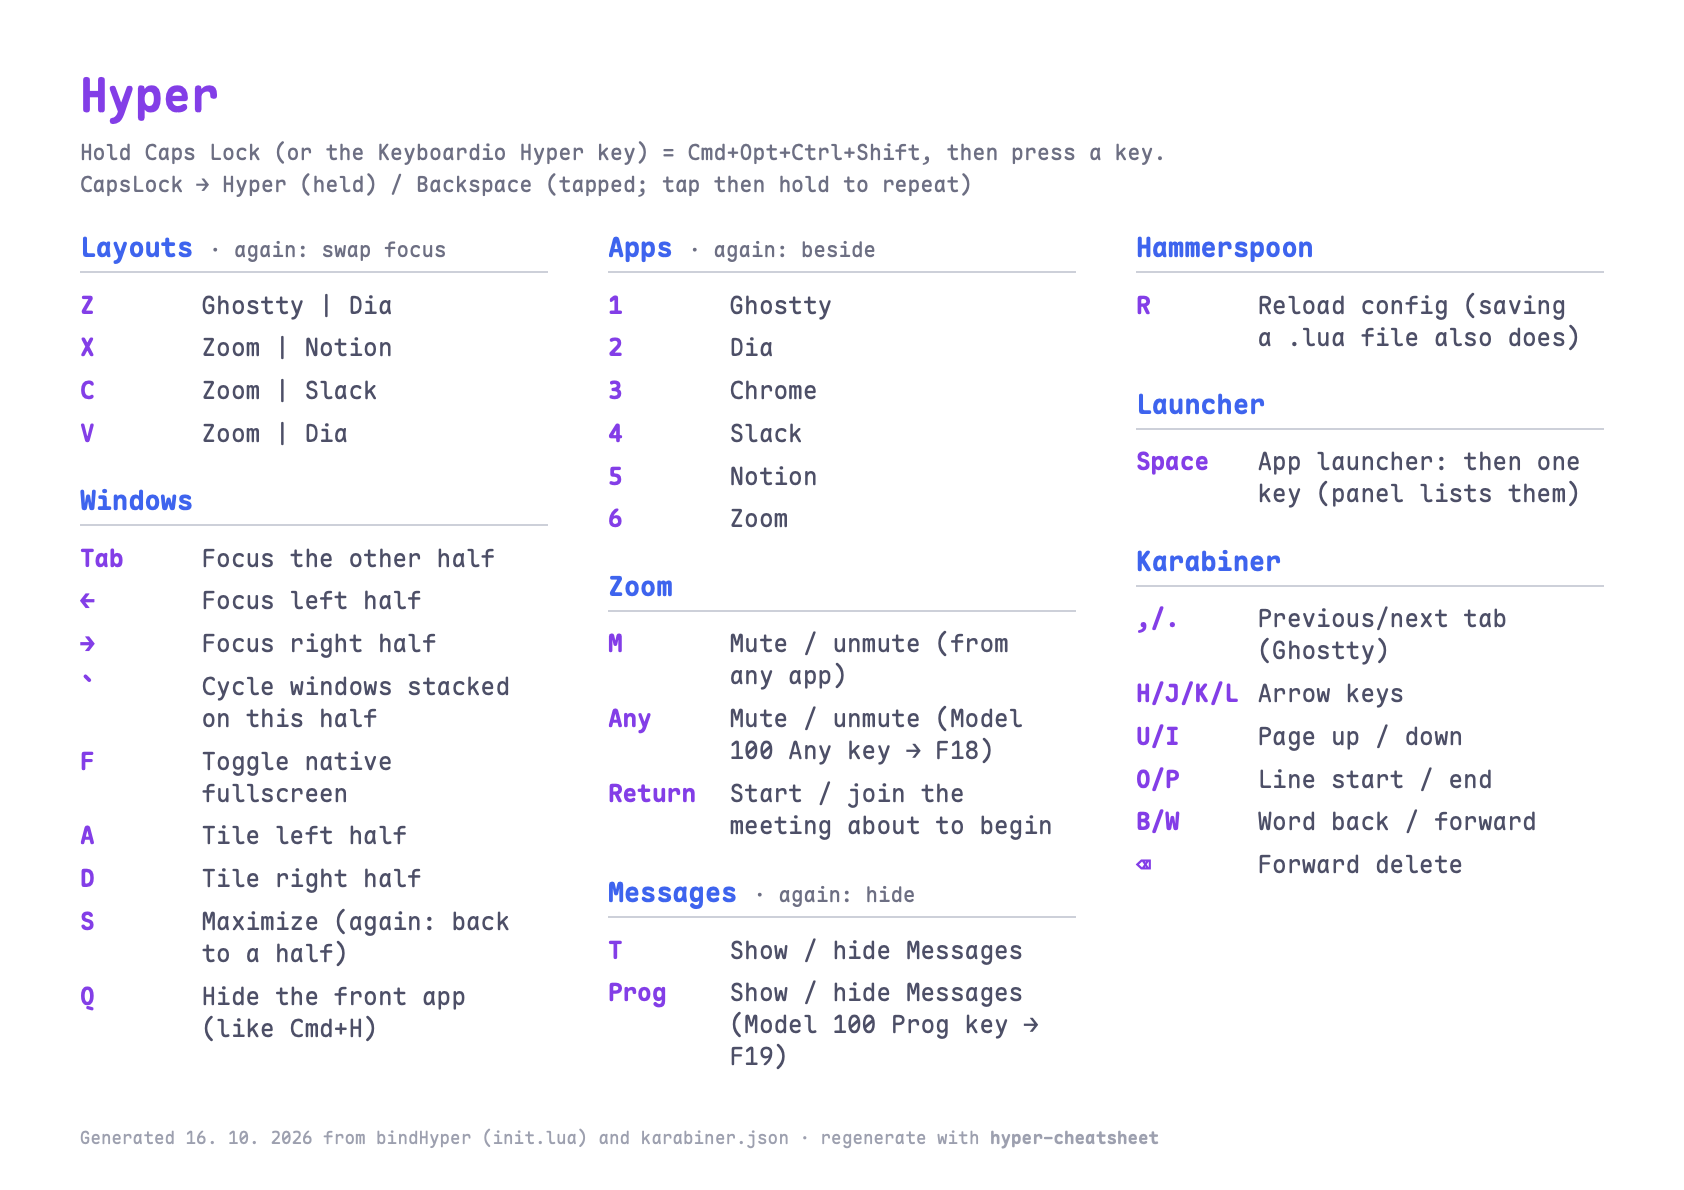
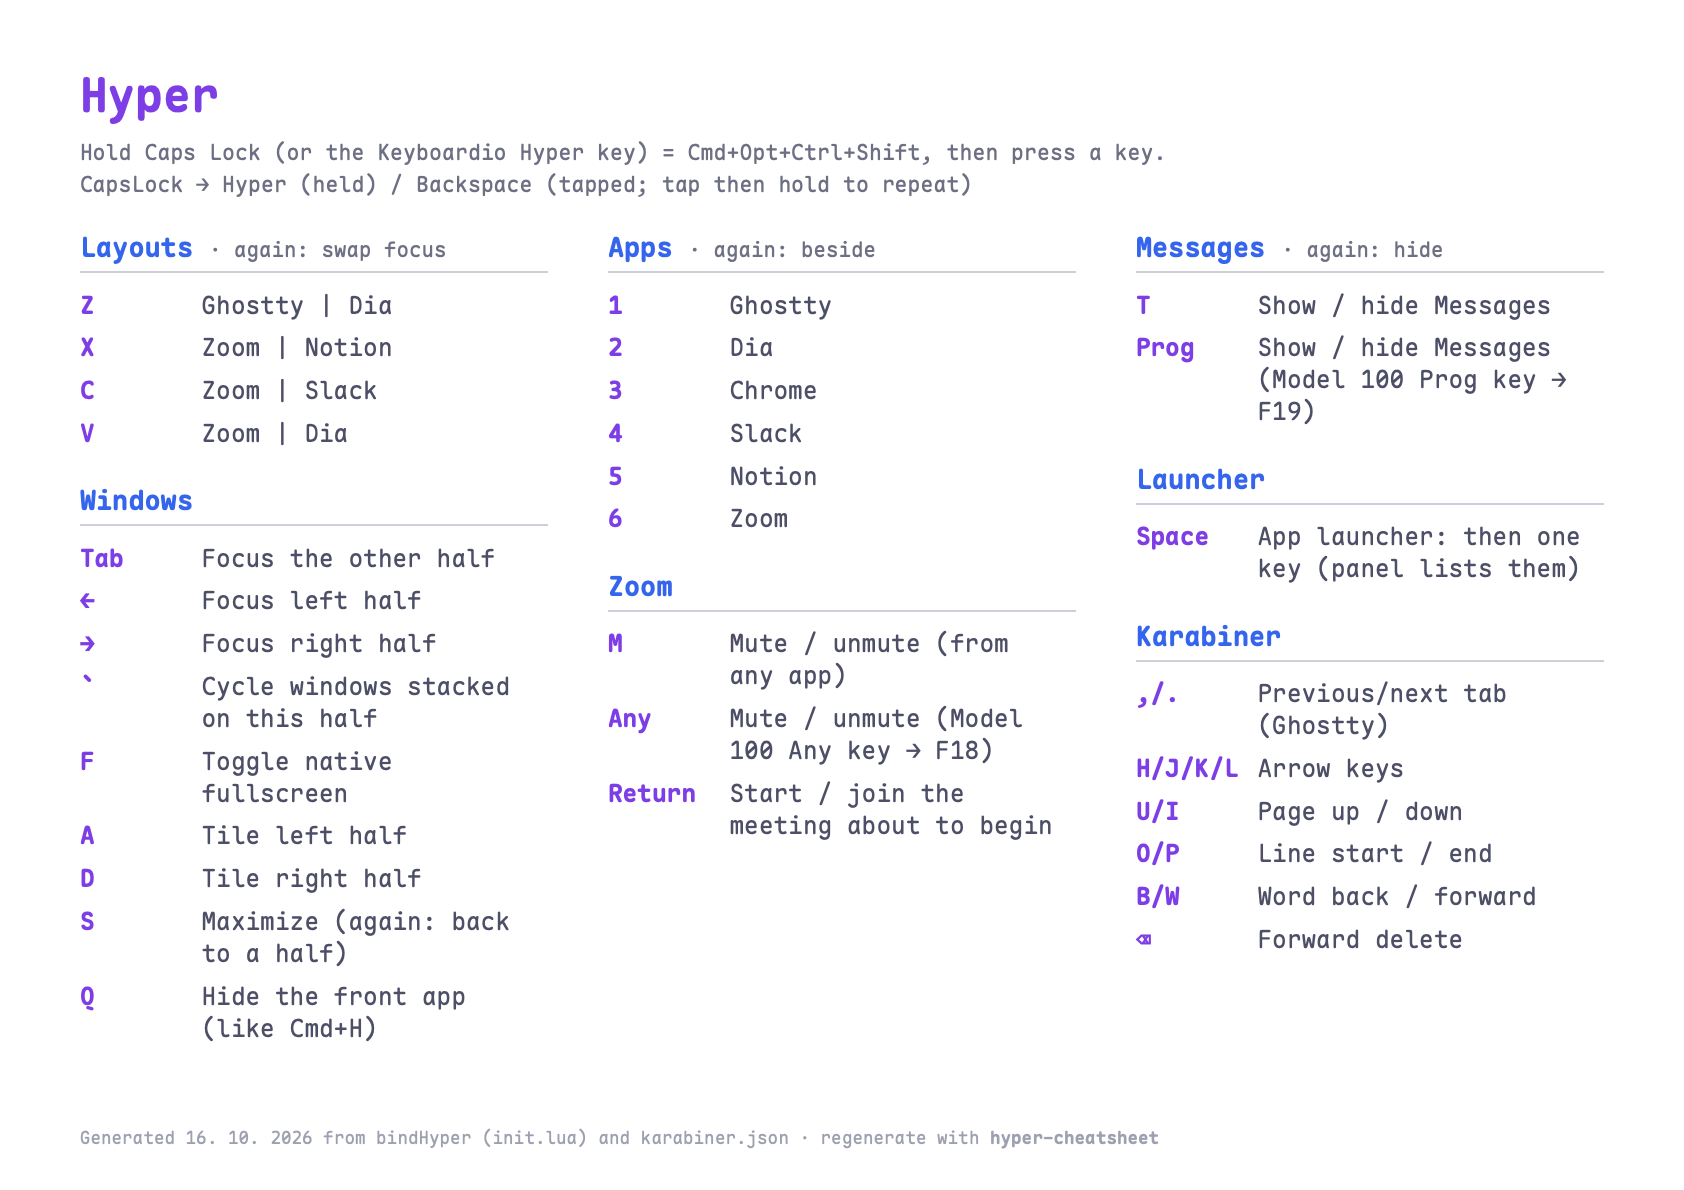
Hammerspoon: drop Hyper+R (reload) — saving a .lua file already reloads
R is one of the few free home-row-adjacent Hyper keys, and the reload it
held is automatic: the pathwatcher reloads on every .lua save. Reloading
without an edit is `(hs -c 'hs.reload()' &)`. The cheatsheet loses its
Hammerspoon section. The GUIDE's "pick a free key" advice now points at the
cheatsheet and the lit layer instead of a hand-kept list that had gone stale.

The Model 100 wasn't connected: its R key stays lit until
`keyboardio-layers --apply` and `keyboardio-backup` run (noted in TODO.md).

Claude-Session: https://claude.ai/code/session_01GPLQFH3ZSRtaBoie4R85Q1

diff --git a/GUIDE.md b/GUIDE.md
@@ -806,7 +806,7 @@ brightness 200/255):
   | `,` `.` — Ghostty tabs | white |
   | 1–6 — apps, each in its own color | Ghostty mauve (its Catppuccin accent), Dia yellow, Chrome green, Slack pink, Notion white, Zoom blue |
   | Z X C V — layouts · ` Tab Q A S D F, left thumb Cmd Shift — windows | mauve · blue |
-  | T Messages · M Zoom mute · R reload | teal · red · yellow |
+  | T Messages · M Return — Zoom mute, join | teal · red |
   | Space — launcher | green (like the app keys) |
 
 - **Function** / **Numpad** — only their own keys lit, by kind: F-keys pink,
@@ -1064,14 +1064,12 @@ where "again" hides instead of putting the app beside the last window. Pin the c
 most, so Messages opens on them, and allow those people through your work
 Focus (System Settings → Focus → People).
 
-### Utilities
-
-| Shortcut | Action |
-|---|---|
-| Hyper + R | Reload Hammerspoon config |
+### Reloading
 
 Saving any `.lua` file in `config/hammerspoon/` reloads Hammerspoon on its own
-(`hs.pathwatcher`), so Hyper+R is rarely needed.
+(`hs.pathwatcher`), so there's no reload key — Hyper+R is free. To reload
+without an edit: `(hs -c 'hs.reload()' &)` in a terminal (in the background:
+in the foreground `hs` waits on the reload and hangs).
 
 ### Debugging
 
@@ -1150,11 +1148,10 @@ cheatsheet:
 bindHyper("g", "Layouts", "Figma | Chrome", function() tilePair("Figma", "Google Chrome") end)
 ```
 
-Pick a key that isn't already bound — the bottom row `Z`/`X`/`C`/`V` holds the
-existing layouts, `A`/`S`/`D`/`F` do single-window placement, `1`–`6` focus apps,
-`M` mutes Zoom, `R` reloads, `Tab`/`Left`/`Right` move focus, `H`/`J`/`K`/`L` are
-arrow keys in Karabiner, and `,`/`.`/`/` are reserved by macOS (see Ghostty
-tabs above). Saving the file reloads Hammerspoon.
+Pick a key that isn't already bound — hold Hyper for the cheatsheet, or look
+at the lit Hyper layer on the Model 100 (dark keys are free). `,`/`.`/`/` are
+reserved by macOS (see Ghostty tabs above). Saving the file reloads
+Hammerspoon.
 
 ## Learning path
 
